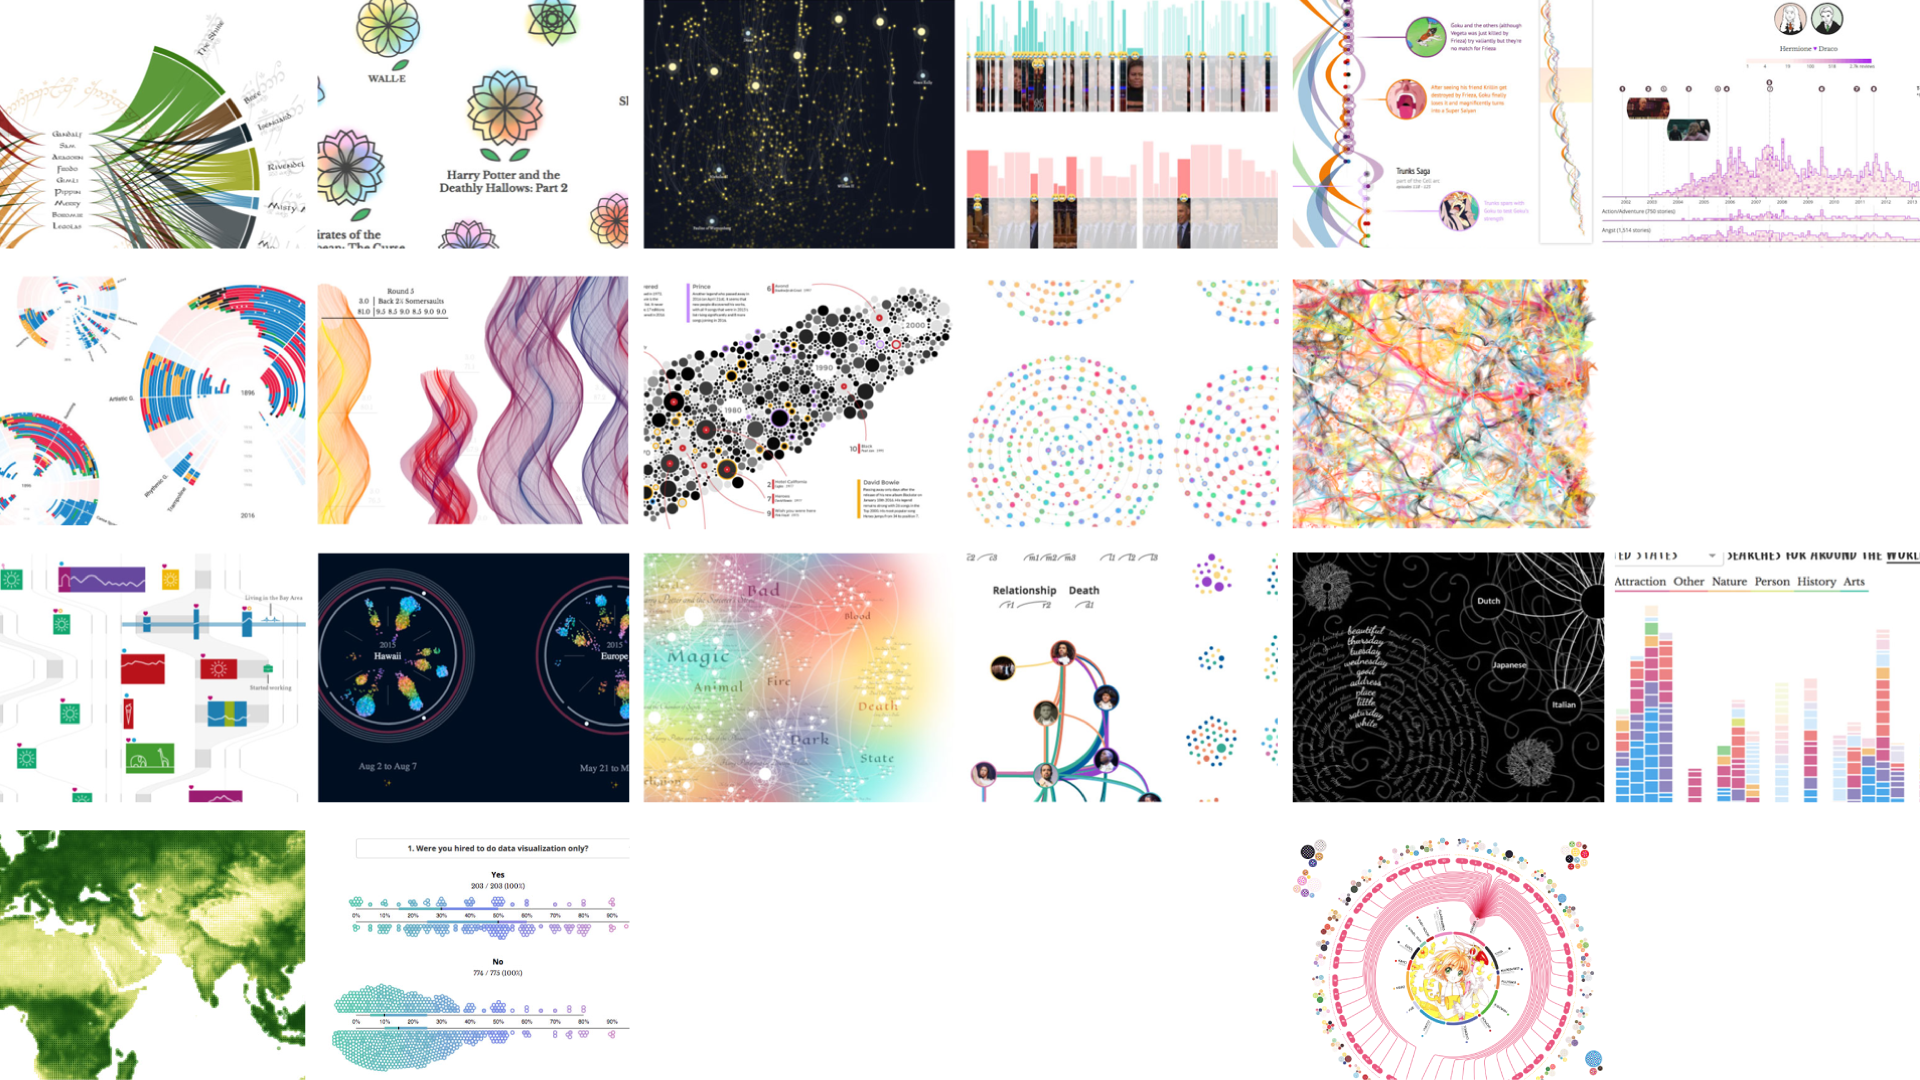
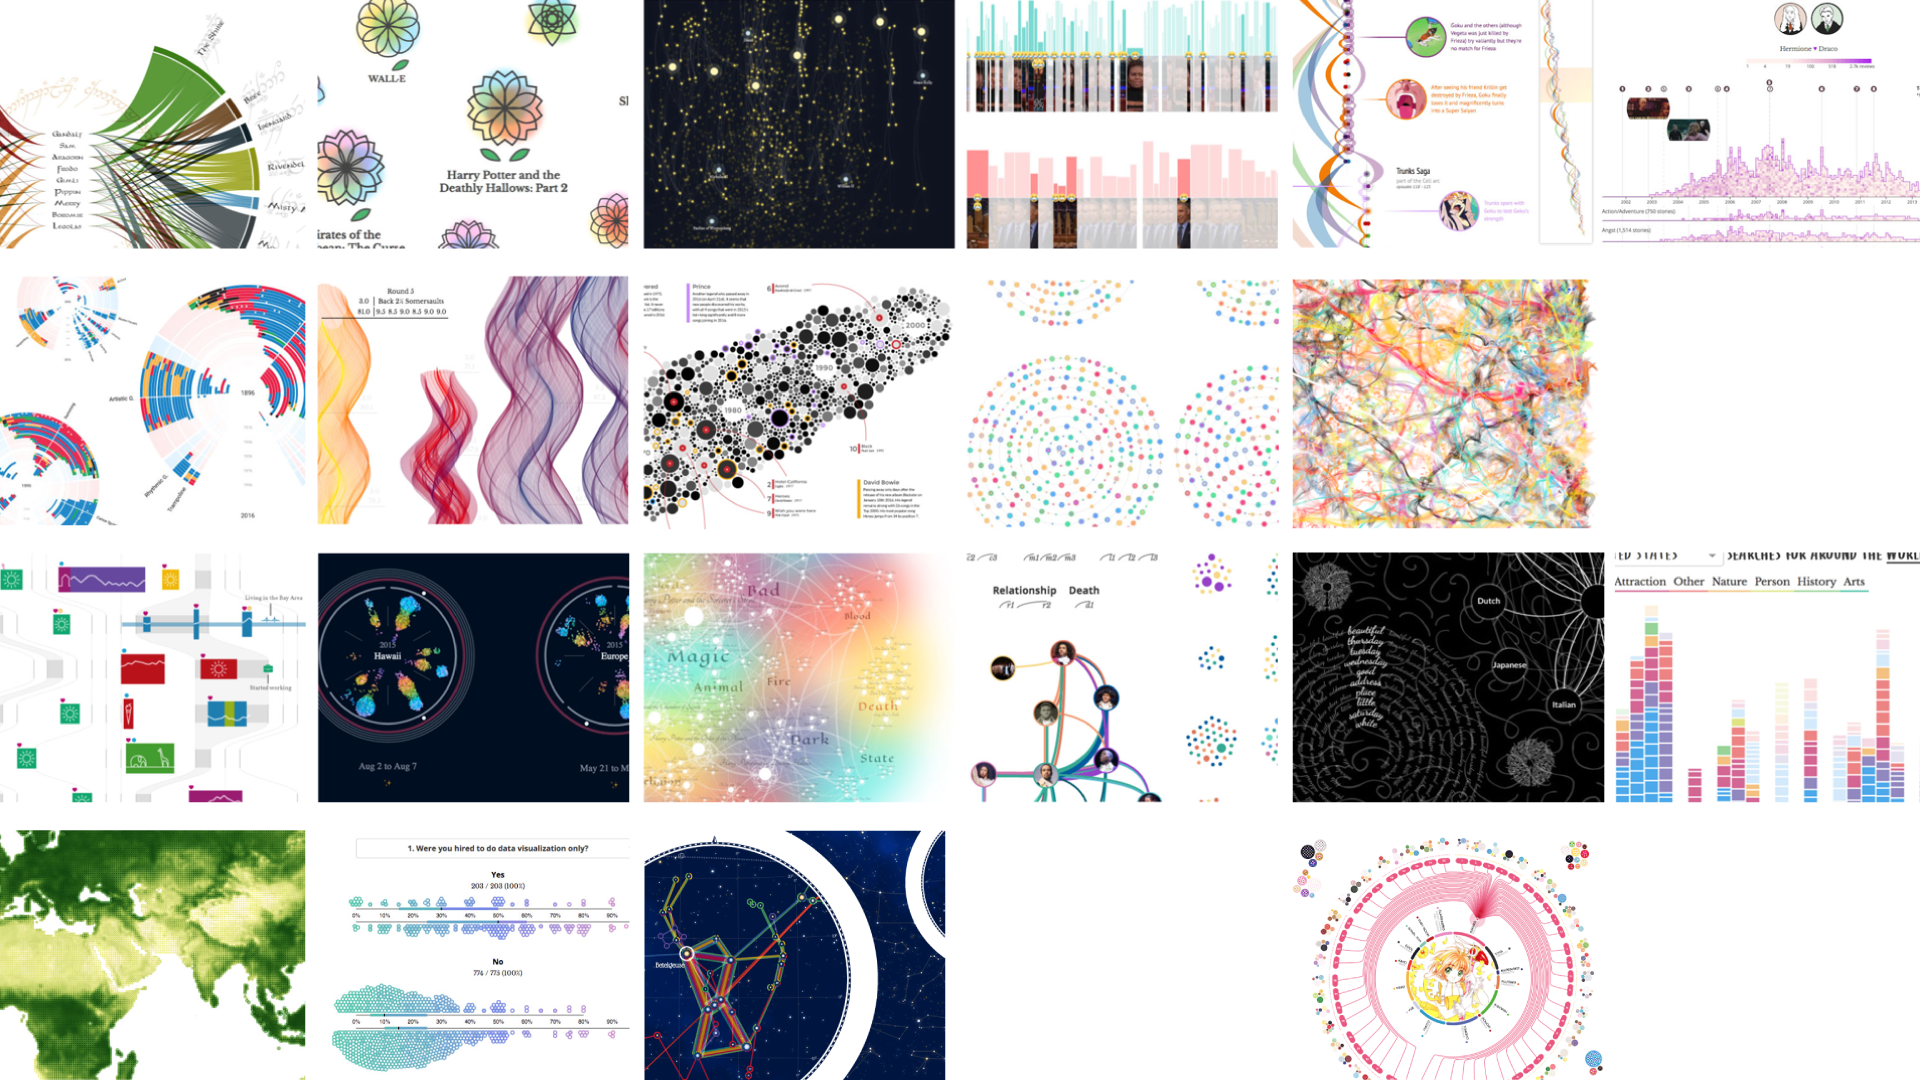
Updated with my final month

Changed region(s): [[0.3125, 0.7639, 0.5, 1.0]]

diff --git a/slides/slide_N_48/datasketchesTitle.html b/slides/slide_N_48/datasketchesTitle.html
@@ -45,6 +45,7 @@
 		<img id="ds-february" 	class="center-fix" src="slides/slide_N_48/datasketches_title_8.png" />
 		<img id="ds-march" 		class="center-fix" src="slides/slide_N_48/datasketches_title_9.png" />
 		<img id="ds-april" 		class="center-fix" src="slides/slide_N_48/datasketches_title_10.png" />
+		<img id="ds-may" 		class="center-fix" src="slides/slide_N_48/datasketches_title_11.png" />
 		<img id="ds-june" 		class="center-fix" src="slides/slide_N_48/datasketches_title_12.png" />
 	</div>
 </section>

diff --git a/slides/slide_N_48/datasketchesTitle.js b/slides/slide_N_48/datasketchesTitle.js
@@ -2,7 +2,7 @@ pt.datasketchesTitle = pt.datasketchesTitle || {};
 
 pt.datasketchesTitle.init = function() {
 
-	var ids = ["july","august","september","october","november","december","january","february","march","april","june"];
+	var ids = ["july","august","september","october","november","december","january","february","march","april","may","june"];
 	var counter = 0;
 	var dur = 1000;
 

diff --git a/slides/slide_N_79/top2000Background.html b/slides/slide_N_79/top2000Background.html
@@ -7,7 +7,9 @@
 
 	#top-2000-background .filter {
 		-webkit-filter: contrast(150%) saturate(110%);
-		filter: contrast(150%) saturate(110%);
+        filter: contrast(150%) saturate(110%);
+        width: 100%;
+        height: 100%;
 	}
 	#top-2000-background .filter::after {
 		content: "";
